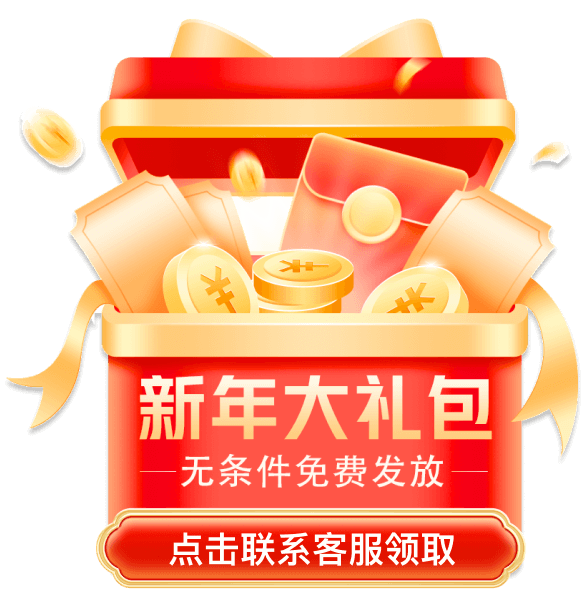
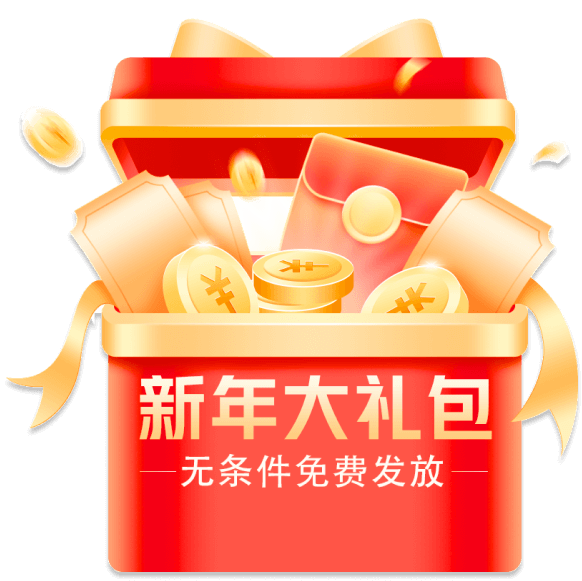
feat: [dy/lh/xf landing-v11] Change redpacket button to GIF

Changed region(s): [[0.0, 0.062, 1.0, 1.0], [0.0309, 0.1859, 0.1546, 0.3098], [0.9278, 0.5267, 0.9897, 0.5886]]

diff --git a/dy-landing-v11/index.html b/dy-landing-v11/index.html
@@ -39,6 +39,9 @@
               style="position: absolute; top: 0; left: 0; width: 100%; height: 100%"
             />
             <img src="imgs/banner-img.png" alt="" style="width: 80%; margin: 0 auto; position: relative; z-index: 1" />
+            <div class="banner-btn-wrapper">
+              <img class="banner-btn" src="imgs/banner-btn.gif" alt="" />
+            </div>
           </a>
         </div>
 

diff --git a/lh-landing-v11/index.html b/lh-landing-v11/index.html
@@ -39,6 +39,9 @@
               style="position: absolute; top: 0; left: 0; width: 100%; height: 100%"
             />
             <img src="imgs/banner-img.png" alt="" style="width: 80%; margin: 0 auto; position: relative; z-index: 1" />
+            <div class="banner-btn-wrapper">
+              <img class="banner-btn" src="imgs/banner-btn.gif" alt="" />
+            </div>
           </a>
         </div>
 

diff --git a/xf-landing-v11/index.html b/xf-landing-v11/index.html
@@ -39,6 +39,9 @@
               style="position: absolute; top: 0; left: 0; width: 100%; height: 100%"
             />
             <img src="imgs/banner-img.png" alt="" style="width: 80%; margin: 0 auto; position: relative; z-index: 1" />
+            <div class="banner-btn-wrapper">
+              <img class="banner-btn" src="imgs/banner-btn.gif" alt="" />
+            </div>
           </a>
         </div>
 

diff --git a/dy-landing-v11/css/styles-v2.css b/dy-landing-v11/css/styles-v2.css
@@ -94,6 +94,20 @@ a {
   display: flex;
   flex-direction: column;
   gap: 10px;
+  position: relative;
+}
+
+.banner-btn-wrapper {
+  position: absolute;
+  display: block;
+  left: 22%;
+  right: 16%;
+  bottom: -1%;
+  z-index: 1;
+}
+
+.banner-btn {
+  width: 100%;
 }
 
 .swing {

diff --git a/lh-landing-v11/css/styles-v2.css b/lh-landing-v11/css/styles-v2.css
@@ -94,6 +94,20 @@ a {
   display: flex;
   flex-direction: column;
   gap: 10px;
+  position: relative;
+}
+
+.banner-btn-wrapper {
+  position: absolute;
+  display: block;
+  left: 22%;
+  right: 16%;
+  bottom: -1%;
+  z-index: 1;
+}
+
+.banner-btn {
+  width: 100%;
 }
 
 .swing {

diff --git a/xf-landing-v11/css/styles-v2.css b/xf-landing-v11/css/styles-v2.css
@@ -94,6 +94,20 @@ a {
   display: flex;
   flex-direction: column;
   gap: 10px;
+  position: relative;
+}
+
+.banner-btn-wrapper {
+  position: absolute;
+  display: block;
+  left: 22%;
+  right: 16%;
+  bottom: -1%;
+  z-index: 1;
+}
+
+.banner-btn {
+  width: 100%;
 }
 
 .swing {
